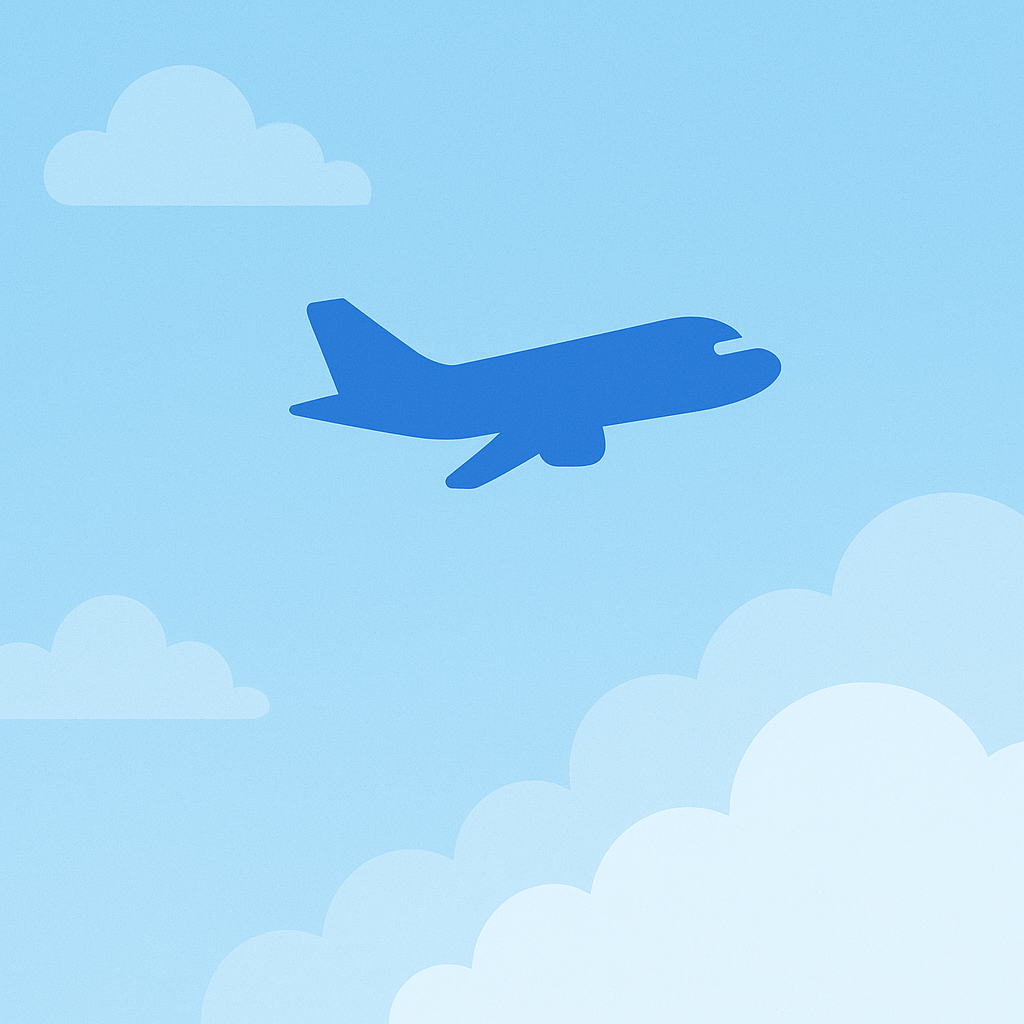
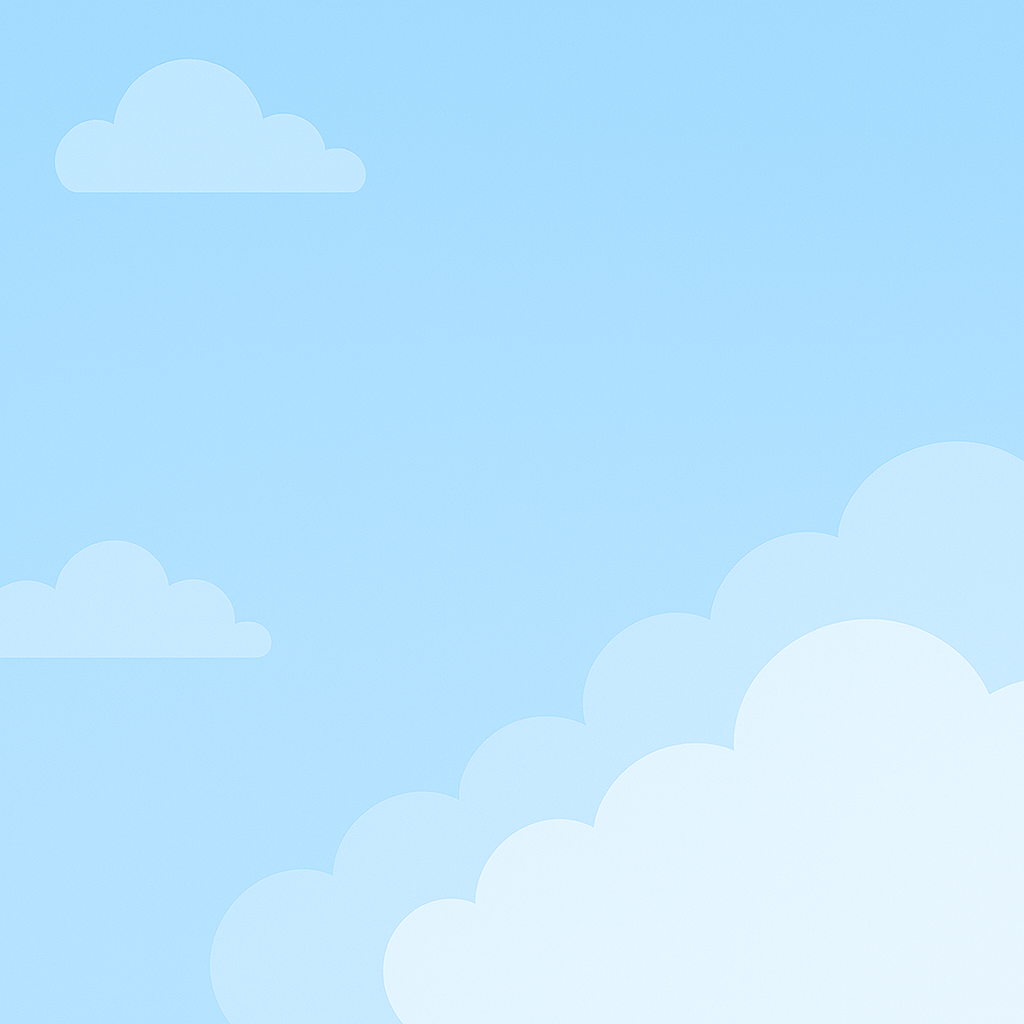
이미지 수정, 주석 추가

diff --git a/app/(tabs)/index.tsx b/app/(tabs)/index.tsx
@@ -1,25 +1,42 @@
-// 📄 index.tsx 또는 App.tsx (React Native)
-import React from 'react';
+import React, { useCallback, useState } from 'react';
 import { StyleSheet, Text, View, ImageBackground, Image } from 'react-native';
+import { MotiImage } from 'moti';
+import { useFocusEffect } from 'expo-router';
 
 export default function App() {
+  const [show, setShow] = useState(false);
+
+  // animation on focus scene
+  useFocusEffect(
+    useCallback(() => {
+      setShow(false);
+      setTimeout(() => setShow(true), 10)
+    }, [])
+  )
   return (
-    <ImageBackground
-      source={require('@/assets/images/clouds-background.png')}
-      style={styles.background}
-      resizeMode="cover"
-    >
+    <>
+      <ImageBackground
+        source={require('@/assets/images/clouds-background.png')}
+        style={styles.background}
+        resizeMode="cover"
+      >
       <View style={styles.container}>
-        <Image
-  //        source={require('./assets/airplane.png')} // 비행기 아이콘 이미지
+        {show && (
+          <MotiImage
+          source={require('@/assets/images/airplane.png')}
           style={styles.icon}
-        />
+          from={{ opacity: 0, translateY: -40 }}
+          animate={{ opacity: 1, translateY: 0 }}
+          transition={{ type: 'timing', duration: 1000 }}
+          />
+        )}        
         <Text style={styles.title}>OK to Fly</Text>
         <Text style={styles.description}>
           기내 반입 금지 물품인지 사진으로 간편하게 확인하세요.
         </Text>
       </View>
-    </ImageBackground>
+      </ImageBackground>
+    </>
   );
 }
 
@@ -33,9 +50,8 @@ const styles = StyleSheet.create({
     paddingHorizontal: 24,
   },
   icon: {
-    width: 100,
-    height: 100,
-    marginBottom: 20,
+    width: 350,
+    height: 350,
   },
   title: {
     fontSize: 36,

diff --git a/app/(tabs)/upload.tsx b/app/(tabs)/upload.tsx
@@ -83,7 +83,7 @@ export default function UploadScreen() {
 
     return (
         <ScrollView contentContainerStyle={{ paddingVertical:100, paddingHorizontal: 20, backgroundColor: '#f9fafb', alignItems: 'center' }}>
-            <Text style={{ fontSize: 24, fontWeight: 'bold', marginBottom: 20 }}>✈ 기내 반입 물품 분석</Text>
+            <Text style={{ fontSize: 24, fontWeight: 'bold', marginBottom: 20 }}>기내 반입 물품 분석</Text>
 
             <TouchableOpacity
                 onPress={pickImage}
